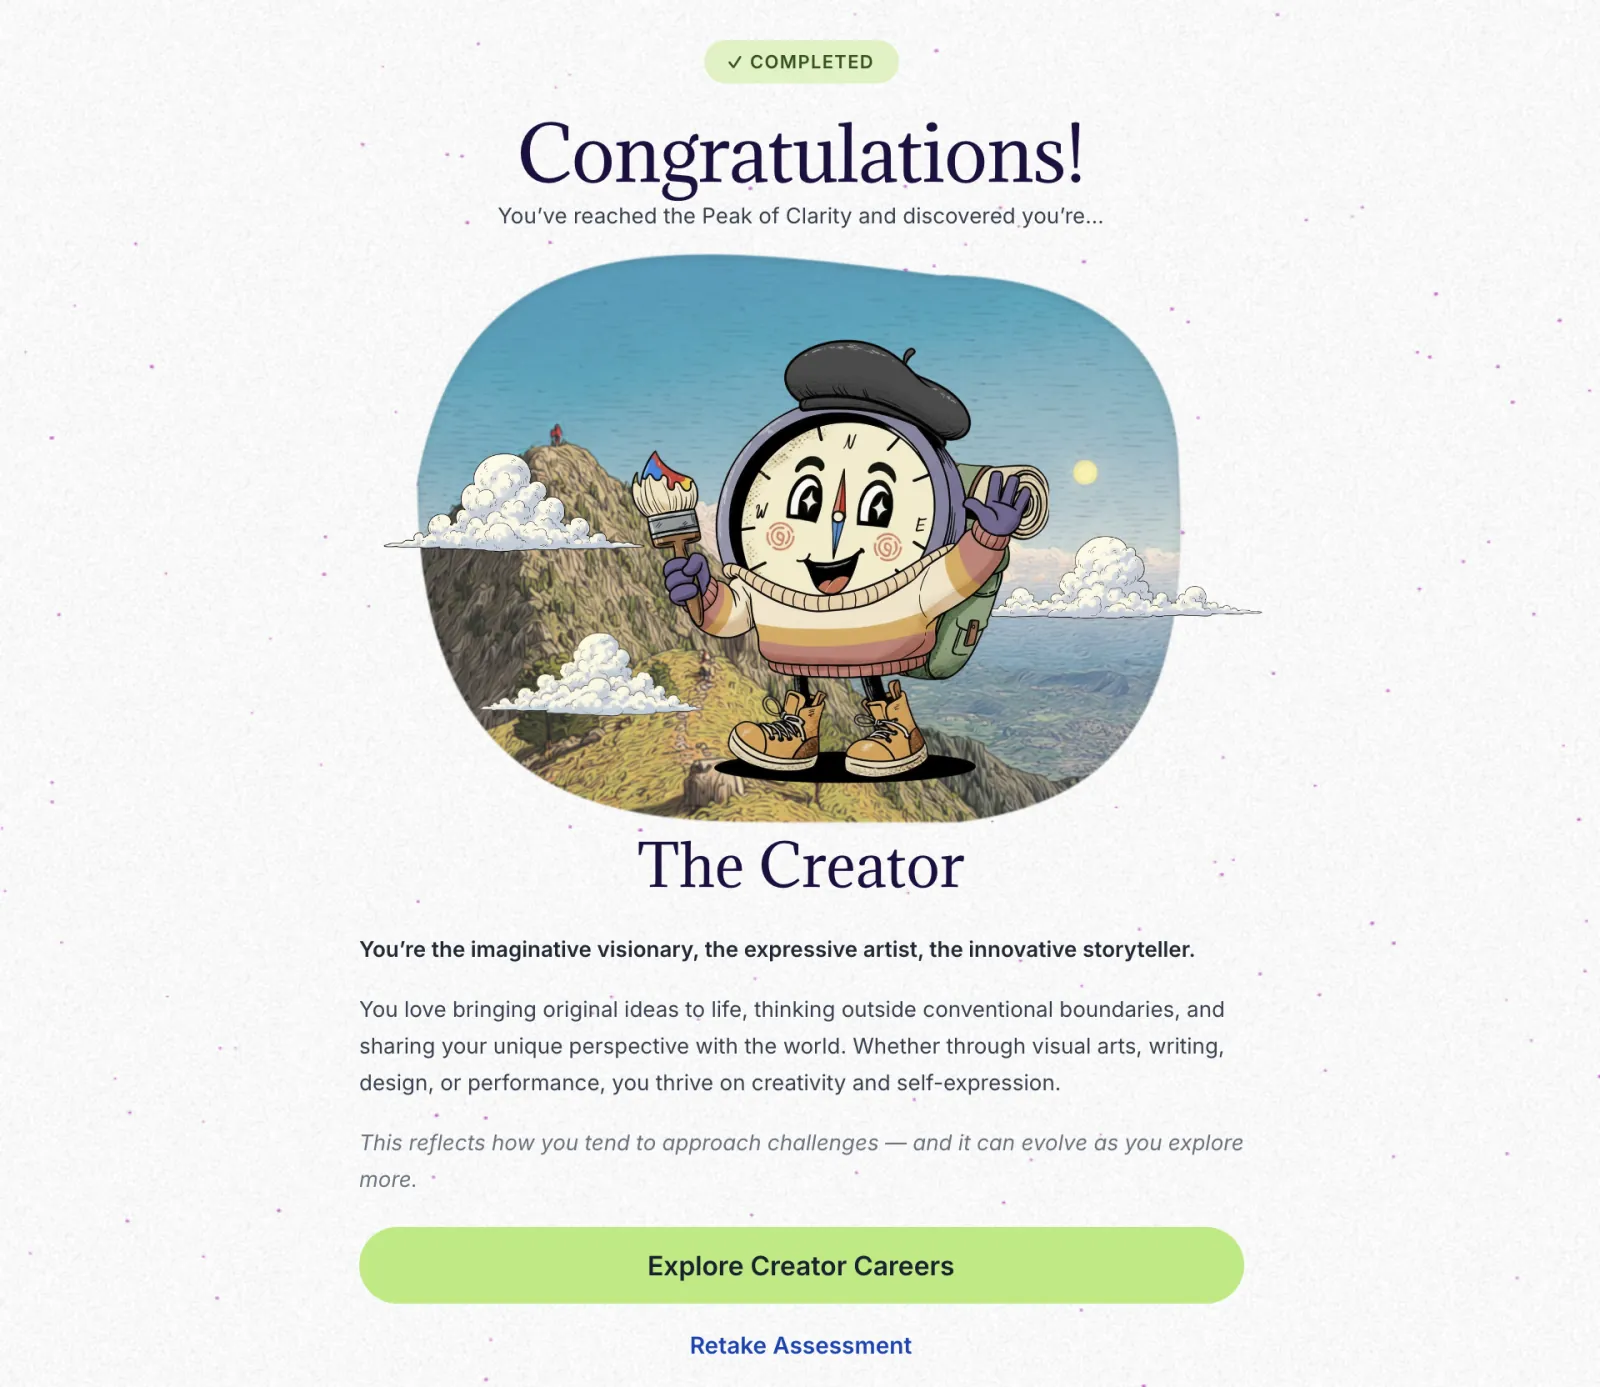
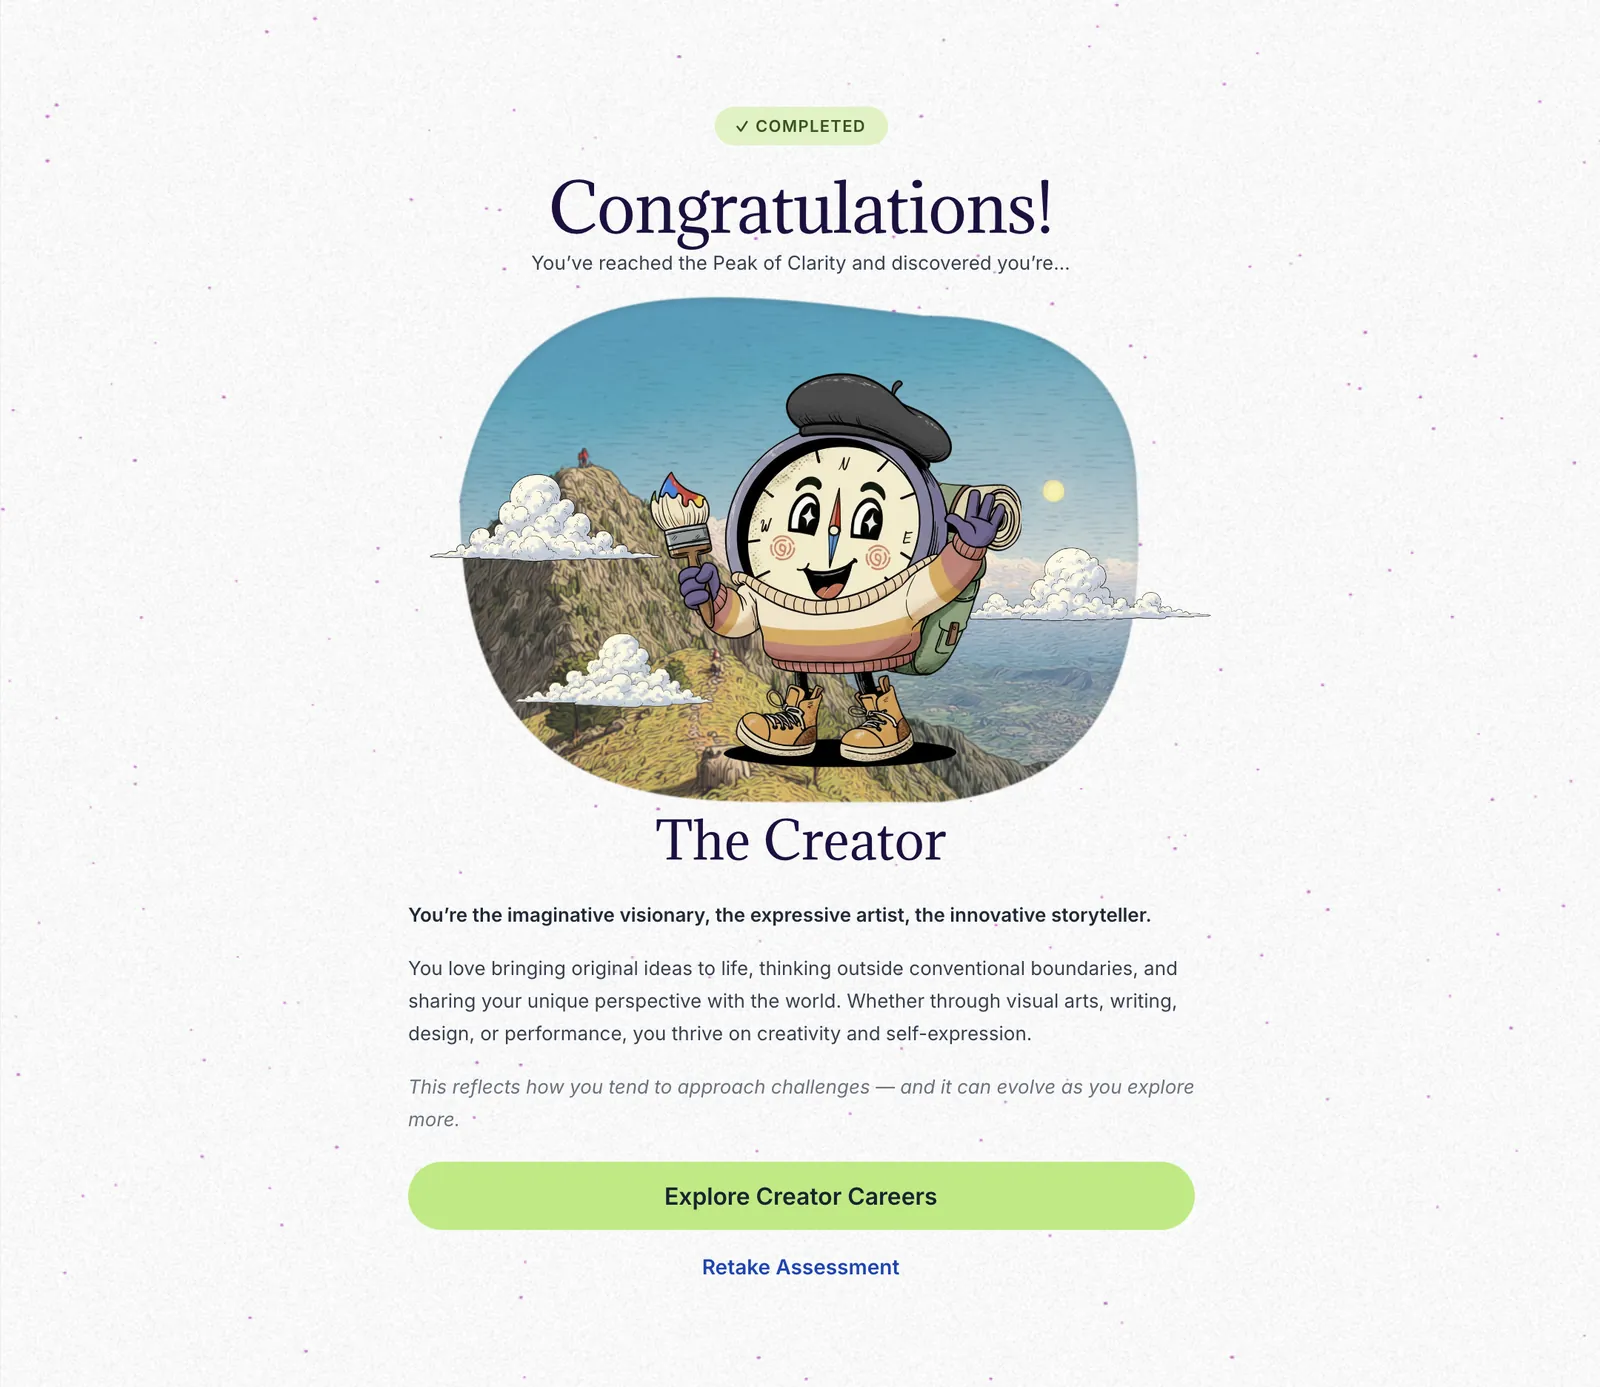
Add the career hub to the Cal hero and the rewrite strip to chapter 5
The hero now ends where the result's button goes, Tallo's Design and
Media hub, at Tallo's own margins (a status bar strip on phones keeps the
logo off the rounded corner). The desktop result is cut from the full
quiz column for more room above and below. Chapter 5 drops its separate
result frame and shows the survey item's three versions as a strip, with
Orion's matching answer ringed.

Changed region(s): [[0.2188, 0.031, 0.7812, 0.9921]]

diff --git a/src/content/case-studies/cal.ts b/src/content/case-studies/cal.ts
@@ -3,8 +3,19 @@ import type { CaseStudy, Flow, Kit } from '@/components/case-study/types'
 // The live Tallo career quiz, behind "Take the real quiz" under the hero.
 const TALLO_QUIZ_URL = 'https://tallo.com/talent/career/career-quiz'
 
-// The hero: four of the quiz's nine paths, rebuilt in Paper (Tallo Brand System › Cal Art) from the
-// live quiz. Desktop screens are cropped to 960x832 out of the 1703x952 artboards: x 371 to 1331
+// The hero: the quiz's welcome, one path, Cal's reaction and the result, then where the result's
+// button goes, Tallo's Design and Media career hub (moved up from chapter 5, Kai 2026-10-22, so the
+// result isn't shown twice). The hub is Kai's captures at Tallo's own margins (Cal-Visuals/05-quiz,
+// 2026-10-22): "Tallo-Results.png" (982px page at 2x) cut to the hero's 960:832 shape centered on
+// the header (x 243 to 1706, y 0 to 1268, ending under the first career row), so the logo keeps its
+// clear space; "DesignMedia-Results-Mobile.png" (393pt at 2x) under a white 59pt status bar, like an
+// iPhone's, so the logo clears the phone's rounded corner, ending under "33 Careers".
+// The desktop result is looser than the other quiz screens (Kai, 2026-10-22, more room above and
+// below): the full quiz column, x 311 to 1391 and y 12 to 948, so its type draws about 11% smaller;
+// its back arrow and Exit are patched with the paper texture beside them. The welcome waits on a
+// taller Paper export, since its content already fills the 952 artboard.
+// The quiz screens were rebuilt in Paper (Tallo Brand System › Cal Art) from the live quiz. Desktop
+// screens are cropped to 960x832 out of the 1703x952 artboards: x 371 to 1331
 // (the middle of the quiz column, which keeps the type readable in the case study and trims the back
 // arrow and Exit off the welcome and result), and y 60 to 892, except the welcome at y 112 to 944 so
 // Begin Expedition keeps its margin (that drops its "Takes ~7 min" line). Boxes are % of each
@@ -20,6 +31,8 @@ const alt = {
     'Quiz reaction screen on the same rainy forest scene. Cal\'s avatar now glows inside a purple halo above a speech panel reading: Cal\'s voice softens: "The best trails are the ones where nobody gets left behind." A green "Continue" button sits below.',
   result:
     'Quiz result screen. A "COMPLETED" pill above the heading "Congratulations! You\'ve reached the Peak of Clarity and discovered you\'re..." An illustration shows Cal wearing a beret and holding a paintbrush on a mountain summit. The result is "The Creator." Body copy: "You\'re the imaginative visionary, the expressive artist, the innovative storyteller. You love bringing original ideas to life, thinking outside conventional boundaries, and sharing your unique perspective with the world. Whether through visual arts, writing, design, or performance, you thrive on creativity and self-expression. This reflects how you tend to approach challenges and it can evolve as you explore more." A green button reads "Explore Creator Careers" with a "Retake Assessment" link below it.',
+  hub:
+    'Tallo\'s Design & Media career hub: a banner of design photos under the breadcrumb "Career Navigator > Hubs," a "My Interests" button, and a card headed "Careers in Design & Media" reading "Unleash your creativity! From visual art to writing, this hub covers design, communication, and broadcasting," with a Career Interests Match of three of five dots, 33 careers and a "View all Careers in Design & Media" button. Below it, "Fastest growing careers in Design & Media," starting with DJ / Announcer, Videographer and Media / Talent Director.',
 }
 const options = ['Show practical techniques', 'Research and share', 'Offer emotional support', 'Rally them forward']
 
@@ -40,7 +53,8 @@ const quizFlow: Flow = {
         ],
       },
       { name: "Cal's reaction", src: `${H}/desktop-3-response.webp`, alt: alt.response, targets: [{ label: 'Continue', box: [22.4, 60.58, 55.31, 5.53], does: 'next' }] },
-      { name: 'Result, The Creator', src: `${H}/desktop-4-result.webp`, alt: alt.result },
+      { name: 'Result, The Creator', src: `${H}/desktop-4-result.webp`, alt: alt.result, targets: [{ label: 'Explore Creator Careers', box: [25.46, 83.76, 49.17, 4.91], does: 'next' }] },
+      { name: 'Design and Media career hub', src: `${H}/desktop-5-hub.webp`, alt: alt.hub },
     ],
   },
   mobile: {
@@ -59,11 +73,40 @@ const quizFlow: Flow = {
         ],
       },
       { name: "Cal's reaction", src: `${H}/mobile-3-response.webp`, alt: alt.response, targets: [{ label: 'Continue', box: [5.33, 51.48, 89.33, 5.67], does: 'next' }] },
-      { name: 'Result, The Creator', src: `${H}/mobile-4-result.webp`, alt: alt.result },
+      { name: 'Result, The Creator', src: `${H}/mobile-4-result.webp`, alt: alt.result, targets: [{ label: 'Explore Creator Careers', box: [5.33, 84.48, 89.33, 5.67], does: 'next' }] },
+      { name: 'Design and Media career hub', src: `${H}/mobile-5-hub.webp`, alt: alt.hub },
     ],
   },
   link: { label: 'Take the real quiz', href: TALLO_QUIZ_URL },
 }
+
+const Q = '/works/cal/quiz'
+
+// Chapter 5's rewrite strip: one Investigative item through three versions, Kai's captures in
+// Cal-Visuals/05-quiz, each cut to 3:5 from the top (the Orion one loses the Typeform editor's
+// "Add choice" link). The ring marks Orion's Investigative answer; Cal's capture already has it
+// picked.
+const rewrite = [
+  {
+    src: `${Q}/rewrite-1-survey.webp`,
+    caption: 'the flagship survey',
+    note: 'rating scale',
+    alt: 'Tallo\'s career assessment, question 16 of 60: "You would like to... Study the movement of planets." Five answers from Strongly Disagree to Strongly Agree.',
+  },
+  {
+    src: `${Q}/rewrite-2-orion.webp`,
+    caption: 'Orion, in space',
+    note: 'scenario with options',
+    mark: [50.5, 36.2, 43, 31.6] as [number, number, number, number],
+    alt: 'The Orion quiz, question 1: "You discover an uncharted planet. What draws you there?" Four illustrated answers: the chance to meet new civilizations, mysterious energy readings to investigate (ringed), rich resources waiting to be cultivated, and beautiful landscapes to explore and document.',
+  },
+  {
+    src: `${Q}/rewrite-3-cal.webp`,
+    caption: 'Cal, on the trail',
+    note: 'scenario with options',
+    alt: 'Cal\'s quiz, path 4 of 9: "Strange tracks discovered! You\'ve found mysterious animal tracks in Mystery Grove. What\'s your instinct?" Four answers: Research and identify, what made these tracks (picked); Imagine the story, what creature made these; Document systematically, catalog these tracks; Lead an expedition, track this animal.',
+  },
+]
 
 // Chapter 2's homepage before and after: Cal-Visuals/02-problem/Tallo-LP-*.png whole, Safari window
 // and all (Kai, 2026-10-22: the tight crops lost too much). Each is trimmed to its window and shadow,
@@ -320,20 +363,11 @@ export const cal: CaseStudy = {
         {
           kind: 'visual',
           visual: {
-            label: 'Interactive result → hub, desktop and mobile versions: The Creator result → Design and Media career hub',
-            frame: 'browser',
-          },
-        },
-        {
-          kind: 'visual',
-          visual: {
             label: 'Rewrite strip: survey item "Study the movement of planets" → Orion version → Cal version',
-            tiles: [
-              { aspect: '3 / 2', label: 'Survey item' },
-              { aspect: '3 / 2', label: 'Orion version' },
-              { aspect: '3 / 2', label: 'Cal version' },
-            ],
-            cols: [1, 3],
+            frame: 'screen',
+            aspect: '3 / 5',
+            strip: rewrite,
+            cols: [3, 3],
           },
         },
       ],

diff --git a/src/components/case-study/Strip.tsx b/src/components/case-study/Strip.tsx
@@ -1,15 +1,18 @@
 'use client'
 
-// A row of character art on one baseline, a caption under each, and tap to see one larger (Cal
-// chapter 3's Calvolution). The art is on white, so it multiplies onto the page instead of sitting
-// in white boxes. The blend is on the button, not the <img>: the hover lift's transform isolates the
-// button, and a blended child would then show its white. Larger opens in a native <dialog>: Escape,
-// a tap anywhere, or the button closes it.
+// A row of pieces on one baseline, a caption under each, and tap to see one larger. Two looks:
+// character art (Cal chapter 3's Calvolution), on white, so it multiplies onto the page instead of
+// sitting in white boxes; and product screens (chapter 5's rewrite strip), each a rounded screen with
+// a hairline edge, where a mark can ring the part to look at. For art the blend is on the button,
+// not the <img>: the hover lift's transform isolates the button, and a blended child would then
+// show its white. Larger opens in a native <dialog>: Escape, a tap anywhere, or the button closes it.
 import { useRef, useState, type CSSProperties } from 'react'
-import type { Visual } from './types'
+import type { Box, Visual } from './types'
 import './step-frame.css'
 
-export default function Strip({ items, aspect, cols }: { items: NonNullable<Visual['strip']>; aspect: string; cols: [number, number] }) {
+type Item = NonNullable<Visual['strip']>[number]
+
+export default function Strip({ items, aspect, cols, screens = false }: { items: Item[]; aspect: string; cols: [number, number]; screens?: boolean }) {
   const dialog = useRef<HTMLDialogElement>(null)
   const [open, setOpen] = useState(0)
   const show = (i: number) => {
@@ -23,18 +26,22 @@ export default function Strip({ items, aspect, cols }: { items: NonNullable<Visu
       <ol className="cs-tiles grid items-start gap-x-3 gap-y-6 md:gap-x-4" style={{ '--cols': cols[0], '--cols-md': cols[1] } as CSSProperties}>
         {items.map((it, i) => (
           <li key={it.src}>
-            <button type="button" onClick={() => show(i)} className="st-tile block w-full mix-blend-multiply">
-              <img src={it.src} alt={it.alt} draggable={false} className="block w-full" style={{ aspectRatio: aspect }} />
+            <button type="button" onClick={() => show(i)} className={`st-tile block w-full ${screens ? '' : 'mix-blend-multiply'}`}>
+              <Piece item={it} aspect={aspect} screens={screens} className="w-full" />
               <span className="sr-only">, enlarge</span>
             </button>
             <p className="mt-2 text-center font-mono text-[12px] leading-[1.5] text-ink-muted [text-wrap:balance]">{it.caption}</p>
+            {it.note && <p className="text-center font-mono text-[11px] leading-[1.5] text-ink-faint [text-wrap:balance]">{it.note}</p>}
           </li>
         ))}
       </ol>
       <dialog ref={dialog} onClick={() => dialog.current?.close()} aria-label={item.caption} className="st-dialog">
         <figure className="flex flex-col items-center gap-4 px-6 pb-6 pt-14">
-          <img src={item.src} alt={item.alt} draggable={false} className="max-h-[72dvh] w-auto max-w-full mix-blend-multiply" style={{ aspectRatio: aspect }} />
-          <figcaption className="font-mono text-[13px] text-ink-muted">{item.caption}</figcaption>
+          <Piece item={item} aspect={aspect} screens={screens} className={`max-h-[72dvh] w-auto max-w-full ${screens ? '' : 'mix-blend-multiply'}`} />
+          <figcaption className="text-center font-mono text-[13px] text-ink-muted">
+            {item.caption}
+            {item.note && <span className="block text-[12px] text-ink-faint">{item.note}</span>}
+          </figcaption>
         </figure>
         <button type="button" className="st-close press-scale" aria-label="Close">
           <svg viewBox="0 0 24 24" fill="none" aria-hidden="true">
@@ -45,3 +52,18 @@ export default function Strip({ items, aspect, cols }: { items: NonNullable<Visu
     </>
   )
 }
+
+// The image, plus its mark for a screen. The wrapper shrinks to the image, so the mark's % box lands
+// on the same spot at any size.
+function Piece({ item, aspect, screens, className }: { item: Item; aspect: string; screens: boolean; className: string }) {
+  const img = <img src={item.src} alt={item.alt} draggable={false} className={`block ${className}`} style={{ aspectRatio: aspect }} />
+  if (!screens) return img
+  return (
+    <span className="relative mx-auto block w-fit overflow-hidden rounded-[12px] border border-hairline">
+      {img}
+      {item.mark && <span className="st-mark absolute" style={place(item.mark)} aria-hidden="true" />}
+    </span>
+  )
+}
+
+const place = ([left, top, width, height]: Box): CSSProperties => ({ left: `${left}%`, top: `${top}%`, width: `${width}%`, height: `${height}%` })

diff --git a/src/components/case-study/types.ts b/src/components/case-study/types.ts
@@ -17,15 +17,17 @@ export type Visual = {
   // cols is [phones, md and up]. frame: 'browser' draws a toolbar on the slot.
   tiles?: { aspect: string; label?: string }[]
   cols?: [number, number]
-  frame?: 'browser'
+  frame?: 'browser' | 'screen'
   // A product flow you can step through by tapping, in place of a still (the Cal quiz hero).
   flow?: Flow
   // Captures of one page in a browser frame with a switch between them (a before and after). They
   // share the visual's aspect, so crop them to the same size and zoom.
   compare?: { label: string; src: string; alt: string }[]
   // A row of art on one baseline, each with a caption, that opens larger on tap (Calvolution). The
-  // pieces share the visual's aspect and lay out by cols, like placeholder tiles.
-  strip?: { src: string; alt: string; caption: string }[]
+  // pieces share the visual's aspect and lay out by cols, like placeholder tiles. With frame
+  // 'screen' they're product screens instead: a second caption line (note), and a mark that rings
+  // a part of the screen.
+  strip?: { src: string; alt: string; caption: string; note?: string; mark?: Box }[]
 }
 
 // A box on a screen image as % of the image: [left, top, width, height]. Percentages, so hotspots

diff --git a/src/components/case-study/CaseStudyPage.tsx b/src/components/case-study/CaseStudyPage.tsx
@@ -243,7 +243,7 @@ function VisualBlock({ v }: { v: Visual }) {
       {v.flow ? (
         <StepFrame flow={v.flow} />
       ) : v.strip ? (
-        <Strip items={v.strip} aspect={v.aspect ?? '1 / 1'} cols={v.cols ?? [v.strip.length, v.strip.length]} />
+        <Strip items={v.strip} aspect={v.aspect ?? '1 / 1'} cols={v.cols ?? [v.strip.length, v.strip.length]} screens={v.frame === 'screen'} />
       ) : v.compare ? (
         <Toggle views={v.compare} aspect={v.aspect ?? '16 / 10'} framed={v.frame === 'browser'} />
       ) : v.src ? (

diff --git a/src/components/case-study/step-frame.css b/src/components/case-study/step-frame.css
@@ -125,6 +125,11 @@
   outline: 2px solid var(--color-accent-washi-blue);
   outline-offset: 4px;
 }
+/* A strip screen's mark: the quiz's lime, ringing the answer that matches. */
+.st-mark {
+  border-radius: 10px;
+  box-shadow: 0 0 0 2px #bdf184, 0 0 12px 2px rgb(189 241 132 / 0.45);
+}
 .st-dialog {
   width: min(92vw, 720px);
   max-width: none;
